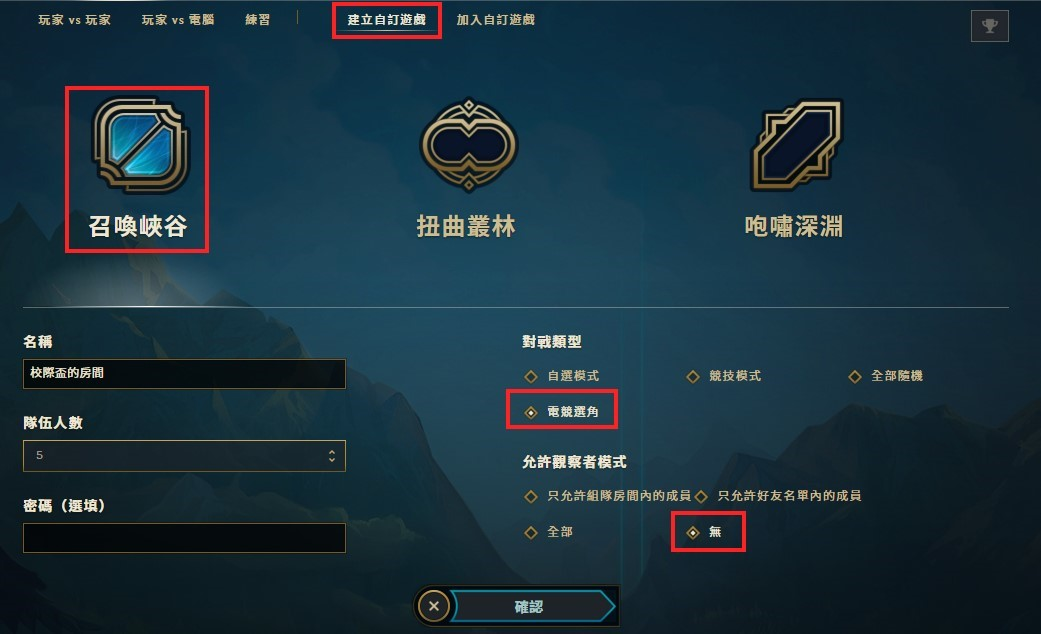
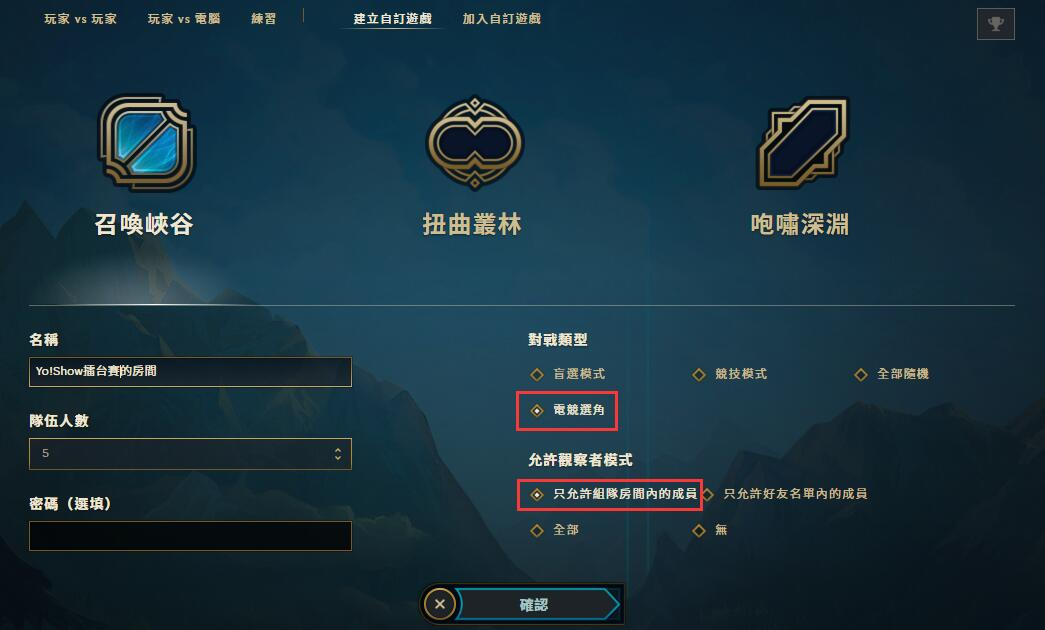
fix

diff --git a/egames/fighting_explanation.html b/egames/fighting_explanation.html
@@ -84,14 +84,13 @@
             <div class="content">
                 <h2>線上約戰說明</h2>
                 <p>Yo!Show官方賽事線上約戰系統採戰隊隊長自行經由系統約戰，因此召喚師們在報名前務必確認全體隊員均有意願及時間能夠配合賽程</p>
-                <p>（建議能備有後補隊員以免臨時有事不能出賽，一旦報名成功，將不能隨意更改任何資料），且務必與對手連絡約戰，約戰前切記先加入對手好友名單討論後再送出約戰時間，如經舉報為態度消極的隊伍成立，則將列觀察名單，重責取消參賽資格，切勿拿自身權益開玩笑。</p>
+                <p>（建議能備有後補隊員以免臨時有事不能出賽，一旦報名成功，將不能隨意更改任何資料），且務必與對手連絡約戰，約戰前切記先加入對手遊戲內好友名單討論後再送出約戰時間，如經舉報為態度消極的隊伍成立，則將列觀察名單，重責取消參賽資格，切勿拿自身權益開玩笑。</p>
                 <div class="fighting_flow">
                     <h2>線上約戰流程</h2>
                     <div class="flow">
                         <h3>步驟 1</h3>
                         <p>進入約戰系統後可以確認到對手的職位資料及角色ID，請務必加入對手為Garena電腦版或遊戲中好友，以便後續進行聯絡比賽相關事宜。</p>
                         <span>●雙方請務必透過Garena電腦版或遊戲內進行溝通。</span>
-                        <img src="images/flow_1.jpg">
                     </div>
                     <div class="flow">
                         <h3>步驟 2</h3>
@@ -117,18 +116,21 @@
                         <p>確定約戰時間後，由藍方對伍開啟英雄聯盟遊戲端，選擇建立自訂遊戲</p>
                         <p>地圖模式： 召喚峽谷</p>
                         <p>對戰類型：電競選角</p>
-                        <p>允許觀察者模式：無</p>
+                        <p>允許觀察者模式：只允許組隊房間內的成員</p>
                         <img src="images/flow_5.jpg" class="float">
                         <img src="images/flow_6.jpg" class="float">
                     </div>
                     <div class="flow">
                         <h3>步驟 7</h3>
-                        <p>紫方隊伍加入房間後，請自行確認藍方所開啟的對戰房型是否正確，需確認左上角的對戰房型資訊，與右下角不得有觀察者模式出現；</p>
-                        <p>藍方對伍請站隊伍1位置，紫方為隊伍2位置，若站錯位置沒有第一時間交換且開始比賽，將視為同意站位，不得要求重賽。</p>
+                        <p>紫方隊伍加入房間後，請自行確認藍方所開啟的對戰房型是否正確，需確認左上角的對戰房型資訊。</p>
+                        <p>藍方隊伍請站隊伍1位置，紫方為隊伍2位置，若站錯位置沒有第一時間交換且開始比賽，將視為同意站位，不得要求重賽。</p>
                         <img src="images/flow_7.jpg">
                     </div>
-                    <p><span>報名必須由『戰隊隊長』進行約戰。並需完成驗證。</span></p>
-                    <p><span>約戰後隊方隊長會收到EMIL通知</span></p>
+                    <ul>
+                    <li><span>報名必須由『戰隊隊長』進行約戰，並需完成驗證。</span></li>
+                    <li><span>約戰後隊方隊長會收到E-mail通知。</span></li>
+                    <li>為了<span>賽事直播</span>及約戰提醒，請各戰隊隊長"務必"加入Happy TV Line好友（HAPPYTV_TW），主辦單位將會邀請隊長進入約戰群，感謝配合！</li>
+                    </ul>
                 </div>
             </div>
         </div>

diff --git a/egames/game-made.html b/egames/game-made.html
@@ -63,19 +63,21 @@
         }
         .cubes {
             float: left;
-            /*margin-right: 3%;*/
-            min-width: 250px;
+            margin-right: 10%;
+            /*min-width: 250px;*/
             max-width: 300px;
             text-align: center;
             font-weight: normal;
 
         }
-        .blue-cube, .red-cube { margin: 0 2%;}
+        /*.blue-cube { margin: 0 30px 0 0;}
+        .red-cube { margin: 0 100px 0 0;}*/
         .cubes .big-title{
             font-size: xx-large;
         }
         .cubes .side-title{
             font-size: x-large;
+            padding: 0 0 10px 0;
         }
         .cubes.blue-cube .big-title{
             color: blue;
@@ -118,7 +120,7 @@
         h2 {
             font-size: medium;
         }
-
+        .fighting_flow { clear: both; padding: 100px 0 0 0;}
 
     </style>
 </head>
@@ -143,7 +145,7 @@
     </div>
     <div id="main" class="main e-games">
         <div class="box">
-            <div class="content">
+            <div class="content" style="overflow: hidden;">
                 <h2 id="team-descript"">您的隊伍為「」, 此輪對戰隊伍為「」</h2>
                 <div class="cubes cube-one">
                     <div id="op-team-list" class="side-title">藍方隊伍名單</div>
@@ -159,6 +161,7 @@
                 <div class="cubes cube-four">
                     <div id="op-team-list" class="side-title">紫方隊伍名單</div>
                 </div>
+                <div class="fighting_flow"><p>為了<span>賽事直播</span>及約戰提醒，請各戰隊隊長"務必"加入Happy TV Line好友（HAPPYTV_TW），主辦單位將會邀請隊長進入約戰群，感謝配合！</p></div>
             </div>
         </div>
         <div class="footer"></div>

diff --git a/egames/_header.html b/egames/_header.html
@@ -36,7 +36,7 @@
     <li>
         <a class="not-open">線上約戰<span></span></a>
         <ul class="sub_menu">
-            <li><a class="not-open">線上約戰說明</a></li>
+            <li><a href="fighting_explanation.html">線上約戰說明</a></li>
             <li><a class="not-open">線上約戰</a></li>
         </ul>
     </li>
